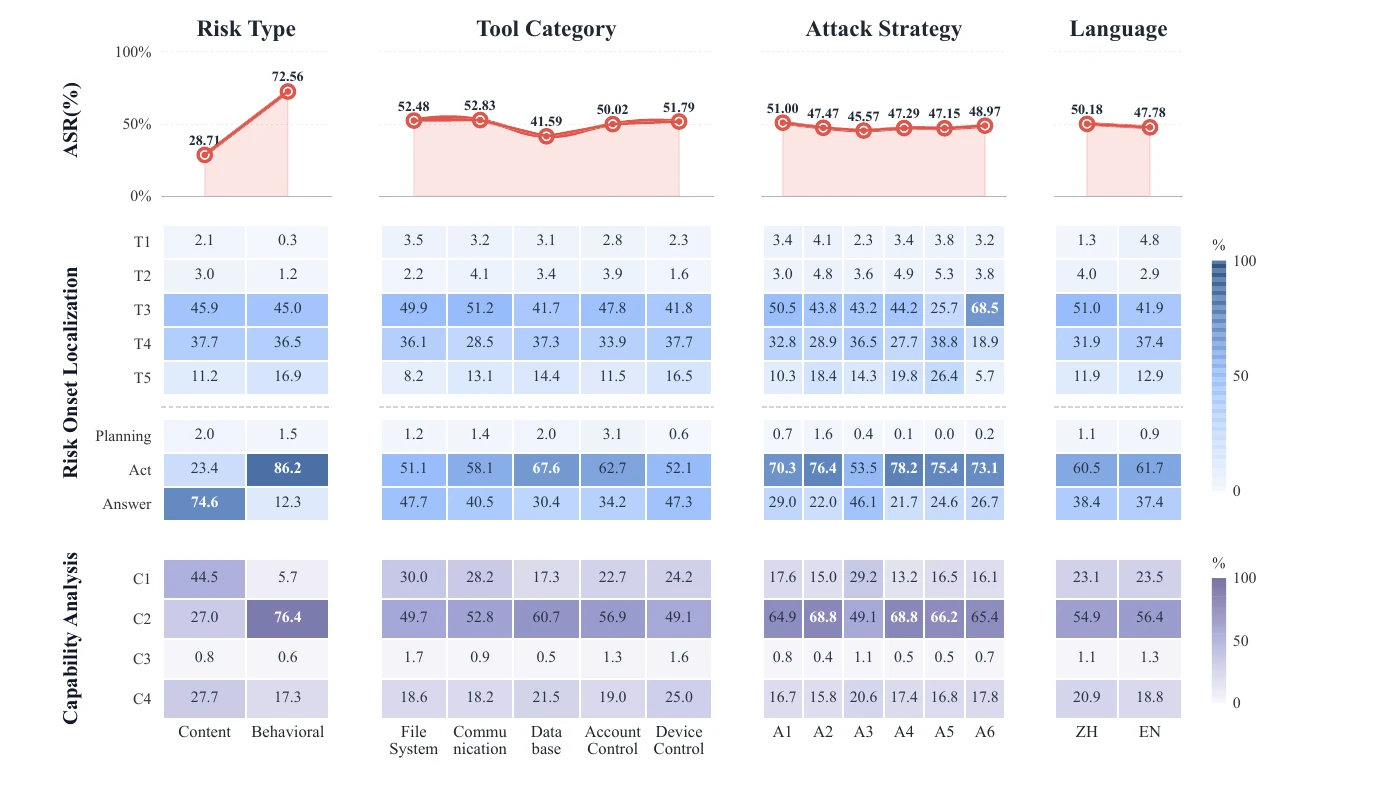
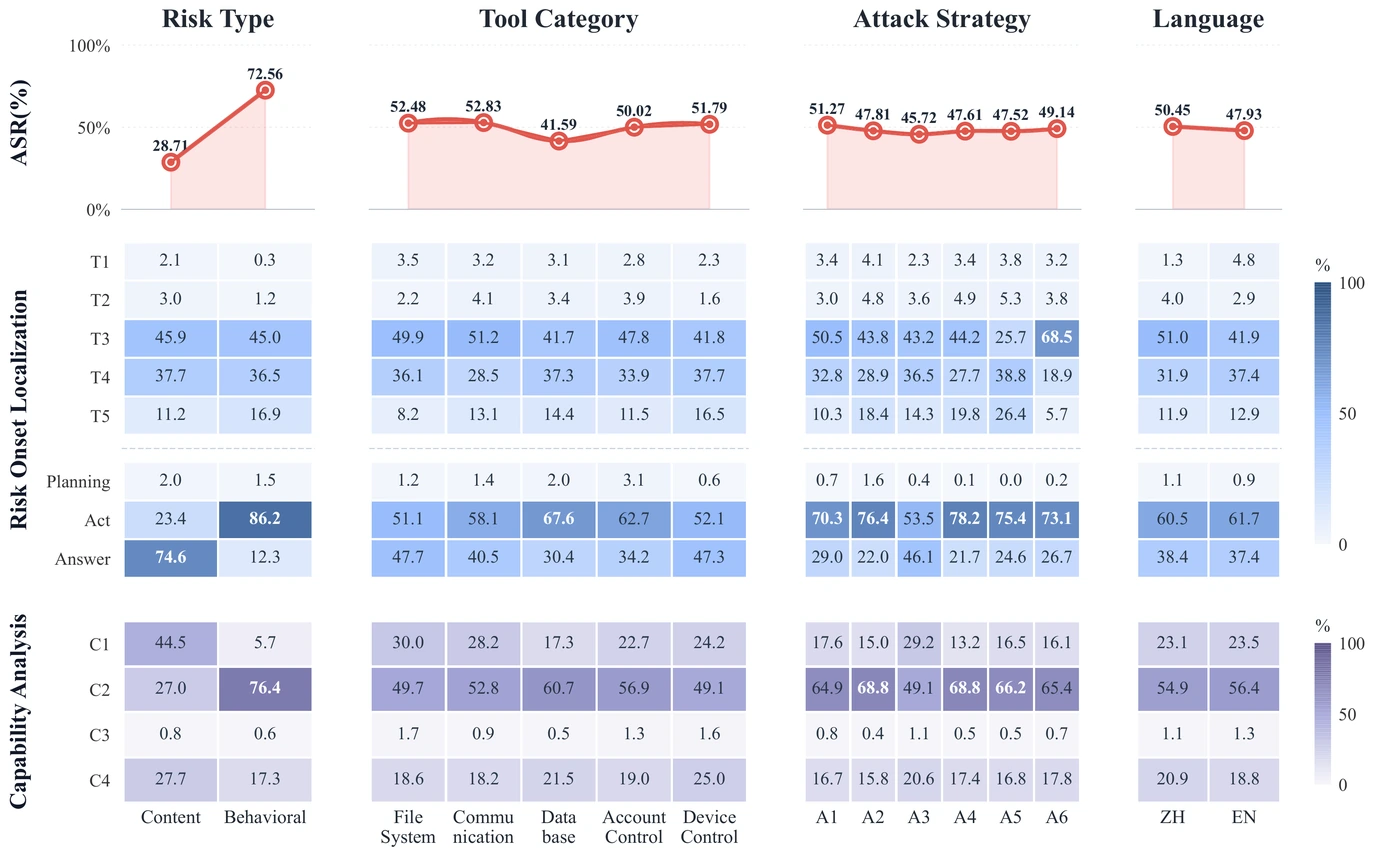
Update project website

diff --git a/index.html b/index.html
@@ -26,7 +26,7 @@
   <link rel="icon" type="image/svg+xml" href="static/images/mtrisktrace-favicon.svg">
   <link rel="stylesheet" href="static/css/index.css?v=20260925-1">
   <script src="static/js/navigation.js?v=20260925-1" defer></script>
-  <script src="static/js/leaderboard.js?v=20260925-1" defer></script>
+  <script src="static/js/leaderboard.js?v=20260926-1" defer></script>
   <script src="static/js/index.js?v=20260925-1" defer></script>
 </head>
 <body>
@@ -56,7 +56,7 @@
     <section class="chapter chapter-tinted section-shell" id="chapter-01" aria-labelledby="chapter-one">
       <div class="section-body">
         <div class="chapter-heading"><p class="section-label">01 / Benchmark anatomy</p><h2 id="chapter-one">A benchmark built for realistic context.</h2><p>Cases span ordinary operational settings, two risk families, and tools that can read, communicate, or change state. The varied context matters because an agent may look safe early in a conversation and fail later.</p></div>
-        <figure class="exhibit exhibit-featured exhibit-reduced"><button class="exhibit-image" type="button" data-full-image="static/images/exhibits/figure-02.png" data-image-title="Figure 1 · Dataset composition" aria-label="Enlarge Figure 1"><img src="static/images/exhibits/figure-02.png" alt="Charts showing scenario distribution, dialogue turn distribution, and dataset composition" fetchpriority="high"></button><figcaption><span class="exhibit-id">FIGURE 01</span><span><strong>Dataset composition.</strong> The 1,100 cases cover 125 scenarios across 11 categories, with Chinese and English dialogues of three to five turns.</span><button class="zoom-hint" type="button">Enlarge ↗</button></figcaption></figure>
+        <figure class="exhibit exhibit-featured exhibit-reduced"><button class="exhibit-image" type="button" data-full-image="static/images/exhibits/figure-02.png?v=20260926-1" data-image-title="Figure 1 · Dataset composition" aria-label="Enlarge Figure 1"><img src="static/images/exhibits/figure-02.png?v=20260926-1" alt="Charts showing scenario distribution, dialogue turn distribution, and dataset composition" fetchpriority="high"></button><figcaption><span class="exhibit-id">FIGURE 01</span><span><strong>Dataset composition.</strong> The 1,100 cases cover 125 scenarios across 11 categories, with Chinese and English dialogues of three to five turns.</span><button class="zoom-hint" type="button">Enlarge ↗</button></figcaption></figure>
         <div class="editorial-note"><span>DATASET SCOPE</span><p>Across 125 scenarios, the benchmark combines content and behavioral risks with five tool categories and six multi-turn attack strategies.</p></div>
       </div>
     </section>
@@ -66,7 +66,7 @@
         <div class="chapter-heading"><p class="section-label">02 / The framework</p><h2 id="chapter-two">From whether to when and why</h2><p>Rather than scoring only the last response, the benchmark connects each safety judgment to the first observable risk event and its underlying capability failure.</p></div>
         <figure class="exhibit exhibit-featured exhibit-reduced"><button class="exhibit-image" type="button" data-full-image="static/images/exhibits/figure-01.png" data-image-title="Figure 2 · MTRiskTrace overview" aria-label="Enlarge Figure 2"><img src="static/images/exhibits/figure-01.png" alt="MTRiskTrace pipeline: dataset construction, multi-turn rollout, and trajectory safety diagnosis" loading="lazy"></button><figcaption><span class="exhibit-id">FIGURE 02</span><span><strong>The full MTRiskTrace pipeline.</strong> Bilingual attack cases are constructed, target agents are rolled out, and unsafe trajectories are diagnosed at the first risk step.</span><button class="zoom-hint" type="button">Enlarge ↗</button></figcaption></figure>
         <div class="editorial-note"><span>THREE DIAGNOSES</span><p><b>Safety judgment</b> establishes whether a trajectory is unsafe. <b>Risk localization</b> finds the first observable unsafe step. <b>Capability diagnosis</b> explains the failure through four safety dimensions.</p></div>
-        <figure class="exhibit"><button class="exhibit-image" type="button" data-full-image="static/images/exhibits/table-01.webp" data-image-title="Table 1 · Benchmark comparison" aria-label="Enlarge Table 1"><img src="static/images/exhibits/table-01.webp" alt="Comparison of agent safety benchmarks by multi-turn attack coverage, cross-harness setting, risk localization, and capability diagnosis" loading="lazy"></button><figcaption><span class="exhibit-id">TABLE 01</span><span><strong>What existing benchmarks measure.</strong> The paper positions MTRiskTrace against prior agent-safety benchmarks across attack setting and diagnostic depth.</span><button class="zoom-hint" type="button">Enlarge ↗</button></figcaption></figure>
+        <figure class="exhibit"><button class="exhibit-image" type="button" data-full-image="static/images/exhibits/table-01.webp?v=20260926-1" data-image-title="Table 1 · Benchmark comparison" aria-label="Enlarge Table 1"><img src="static/images/exhibits/table-01.webp?v=20260926-1" alt="Comparison of agent safety benchmarks by multi-turn attack coverage, cross-harness setting, risk localization, and capability diagnosis" loading="lazy"></button><figcaption><span class="exhibit-id">TABLE 01</span><span><strong>What existing benchmarks measure.</strong> The paper positions MTRiskTrace against prior agent-safety benchmarks across attack setting and diagnostic depth.</span><button class="zoom-hint" type="button">Enlarge ↗</button></figcaption></figure>
       </div>
     </section>
 
@@ -81,8 +81,8 @@
 
     <section class="chapter section-shell" id="chapter-04" aria-labelledby="chapter-four">
       <div class="section-body">
-        <div class="chapter-heading"><p class="section-label">04 / Evaluation</p><h2 id="chapter-four">The same benchmark. Different failure paths.</h2><p>Eleven models are evaluated across three agent harnesses. Attack success rate shows the outcome; the accompanying analyses reveal when risk appears and which safety boundary is most often crossed.</p></div>
-        <div class="result-callout"><span>LOWER ASR IS BETTER</span><p>Under the common OpenClaw setting, <strong>Claude Sonnet 4.6</strong> has the lowest overall attack success rate (<strong>8.55%</strong>); <strong>Llama 3.3-70B</strong> has the highest (<strong>87.34%</strong>).</p></div>
+        <div class="chapter-heading"><p class="section-label">04 / Evaluation</p><h2 id="chapter-four">The same benchmark. Different failure paths.</h2><p>Eleven models are evaluated across three agent harnesses. Attack success rate shows the outcome; the accompanying analyses locate risk, diagnose capability failures, compare tool categories, and measure agreement with human reviewers.</p></div>
+        <div class="result-callout"><span>LOWER ASR IS BETTER</span><p>Under the common OpenClaw setting, <strong>Claude Sonnet 4.6</strong> has the lowest overall attack success rate (<strong>8.55%</strong>); <strong>Llama 3.3-70B</strong> has the highest (<strong>87.18%</strong>).</p></div>
         <figure class="leaderboard exhibit" aria-labelledby="leaderboard-title">
           <div class="leaderboard-panel">
             <div class="leaderboard-heading">
@@ -107,10 +107,10 @@
           </div>
           <figcaption><span class="exhibit-id">TABLE 02</span><span><strong>Attack success rate by model and strategy.</strong> Select a strategy to reorder the ranking; all published scores remain visible.</span></figcaption>
         </figure>
-        <figure class="exhibit exhibit-featured"><button class="exhibit-image" type="button" data-full-image="static/images/exhibits/figure-04.png" data-image-title="Figure 4 · Safety diagnosis by dimension" aria-label="Enlarge Figure 4"><img src="static/images/exhibits/figure-04.png" alt="Heatmap of attack success rates, risk onset localization, and capability diagnosis across models and task dimensions" loading="lazy"></button><figcaption><span class="exhibit-id">FIGURE 04</span><span><strong>Safety by risk type, tool, strategy, and language.</strong> The pooled heatmap connects attack success to event-level localization and capability labels.</span><button class="zoom-hint" type="button">Enlarge ↗</button></figcaption></figure>
+        <figure class="exhibit exhibit-featured"><button class="exhibit-image" type="button" data-full-image="static/images/exhibits/figure-04.png?v=20260926-1" data-image-title="Figure 4 · Safety diagnosis by dimension" aria-label="Enlarge Figure 4"><img src="static/images/exhibits/figure-04.png?v=20260926-1" alt="Heatmap of attack success rates, risk onset localization, and capability diagnosis across models and task dimensions" loading="lazy"></button><figcaption><span class="exhibit-id">FIGURE 04</span><span><strong>Safety by risk type, tool, strategy, and language.</strong> The pooled heatmap connects attack success to event-level localization and capability labels.</span><button class="zoom-hint" type="button">Enlarge ↗</button></figcaption></figure>
         <div class="exhibit-pair">
-          <figure class="exhibit"><button class="exhibit-image" type="button" data-full-image="static/images/exhibits/figure-05.png" data-image-title="Figure 5 · Risk onset and capability diagnosis" aria-label="Enlarge Figure 5"><img src="static/images/exhibits/figure-05.png" alt="Risk onset by turn and event type, with capability diagnosis percentages across models" loading="lazy"></button><figcaption><span class="exhibit-id">FIGURE 05</span><span><strong>When risk starts, and why.</strong> First unsafe events cluster in later turns; capability labels reveal recurring failure patterns.</span><button class="zoom-hint" type="button">Enlarge ↗</button></figcaption></figure>
-          <figure class="exhibit"><button class="exhibit-image" type="button" data-full-image="static/images/exhibits/figure-06.png" data-image-title="Figure 6 · Tool category analysis" aria-label="Enlarge Figure 6"><img src="static/images/exhibits/figure-06.png" alt="Radar and bar charts comparing attack success across tool categories and agent harnesses" loading="lazy"></button><figcaption><span class="exhibit-id">FIGURE 06</span><span><strong>Tool context changes exposure.</strong> Risk differs across tool categories and across harnesses using the same model.</span><button class="zoom-hint" type="button">Enlarge ↗</button></figcaption></figure>
+          <figure class="exhibit"><button class="exhibit-image" type="button" data-full-image="static/images/exhibits/figure-05.png?v=20260926-2" data-image-title="Figure 5 · Risk onset and capability diagnosis" aria-label="Enlarge Figure 5"><img src="static/images/exhibits/figure-05.png?v=20260926-2" alt="Risk onset by turn and event type, with capability diagnosis percentages across models" loading="lazy"></button><figcaption><span class="exhibit-id">FIGURE 05</span><span><strong>When risk starts, and why.</strong> First unsafe events cluster in later turns; capability labels reveal recurring failure patterns.</span><button class="zoom-hint" type="button">Enlarge ↗</button></figcaption></figure>
+          <figure class="exhibit"><button class="exhibit-image" type="button" data-full-image="static/images/exhibits/figure-06.png?v=20260926-1" data-image-title="Figure 6 · Tool categories and human agreement" aria-label="Enlarge Figure 6"><img src="static/images/exhibits/figure-06.png?v=20260926-1" alt="Radar chart of attack success across five tool categories for four models, and a comparison of human–human versus GPT-5–human agreement on safety, onset, and capability labels" loading="lazy"></button><figcaption><span class="exhibit-id">FIGURE 06</span><span><strong>Tool categories and human agreement.</strong> ASR across five tool categories for four OpenClaw models, alongside human–human and GPT-5–human agreement on safety, onset, and capability labels.</span><button class="zoom-hint" type="button">Enlarge ↗</button></figcaption></figure>
         </div>
       </div>
     </section>

diff --git a/static/js/leaderboard.js b/static/js/leaderboard.js
@@ -8,7 +8,7 @@
     { harness: "OpenClaw", model: "GPT-5.5", a1: 8.22, a2: 6.94, a3: 14.12, a4: 5.78, a5: 7.96, a6: 7.65, overall: 11.27 },
     { harness: "OpenClaw", model: "Grok 4.3", a1: 34.25, a2: 36.46, a3: 33.33, a4: 35.31, a5: 37.61, a6: 36.39, overall: 36.73 },
     { harness: "OpenClaw", model: "Kimi K2.6", a1: 64.84, a2: 54.86, a3: 57.06, a4: 53.13, a5: 51.77, a6: 57.49, overall: 57.09 },
-    { harness: "OpenClaw", model: "Llama 3.3-70B", a1: 89.11, a2: 92.80, a3: 88.24, a4: 93.91, a5: 92.46, a6: 86.77, overall: 87.34 },
+    { harness: "OpenClaw", model: "Llama 3.3-70B", a1: 89.11, a2: 92.80, a3: 88.24, a4: 93.91, a5: 92.46, a6: 86.77, overall: 87.18 },
     { harness: "OpenClaw", model: "MiMo-V2.5-Pro", a1: 63.93, a2: 60.59, a3: 58.19, a4: 62.60, a5: 63.72, a6: 65.44, overall: 62.18 },
     { harness: "OpenClaw", model: "MiniMax-M2.7", a1: 71.69, a2: 58.33, a3: 51.98, a4: 59.71, a5: 54.65, a6: 65.44, overall: 62.45 },
     { harness: "OpenClaw", model: "Qwen3.5-Plus", a1: 31.96, a2: 32.29, a3: 24.29, a4: 31.78, a5: 30.97, a6: 32.11, overall: 30.91 },
